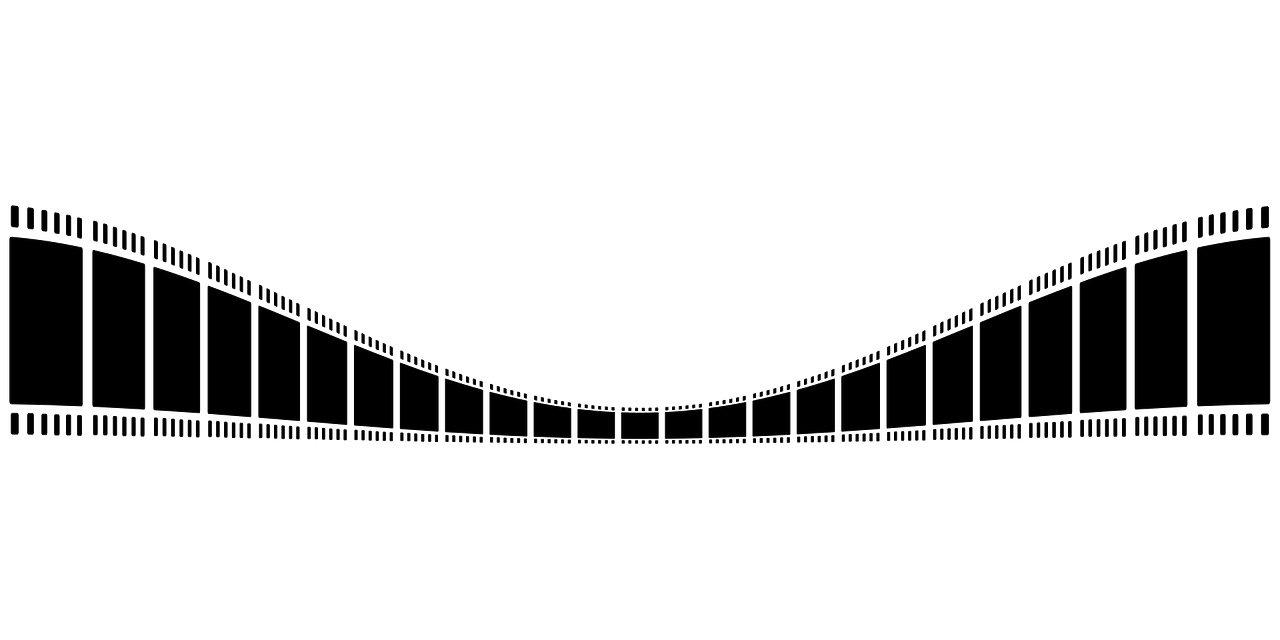
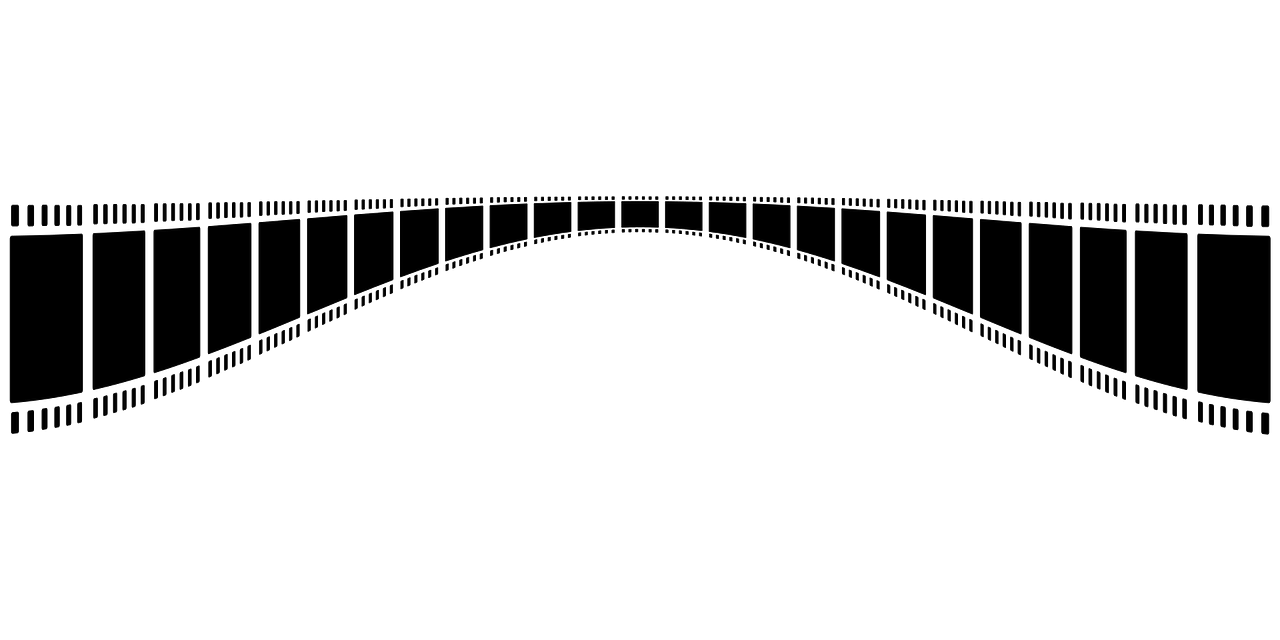
wrap up formatting

Changed region(s): [[0.0, 0.2812, 1.0, 0.7188]]

diff --git a/assets/css/style.css b/assets/css/style.css
@@ -1,5 +1,22 @@
 
 
+
+#roles {
+  list-style-type: none;
+  margin: 0;
+  width: 35rem;
+  padding:0rem 6rem
+}
+
+#title-card {
+  width: 30rem;
+}
+
+#title-card secction {
+  width: 25rem;
+}
+
 #headline {
   background: center url("./../images/filmStrip.png");
+  background-position-y: 88%;
 }

diff --git a/.#index.html b/.#index.html
@@ -1,0 +1,1 @@
+cwenr@DESKTOP-Q6MJABE.17268:1678959892
